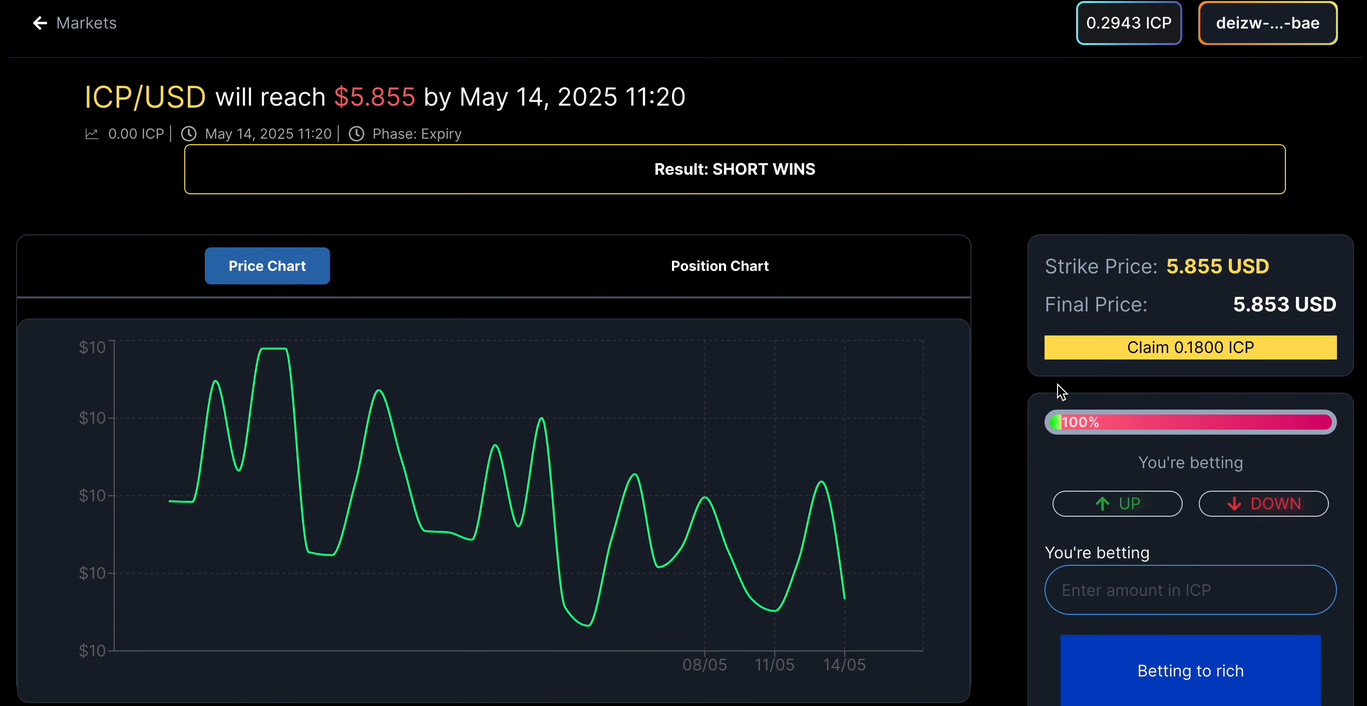
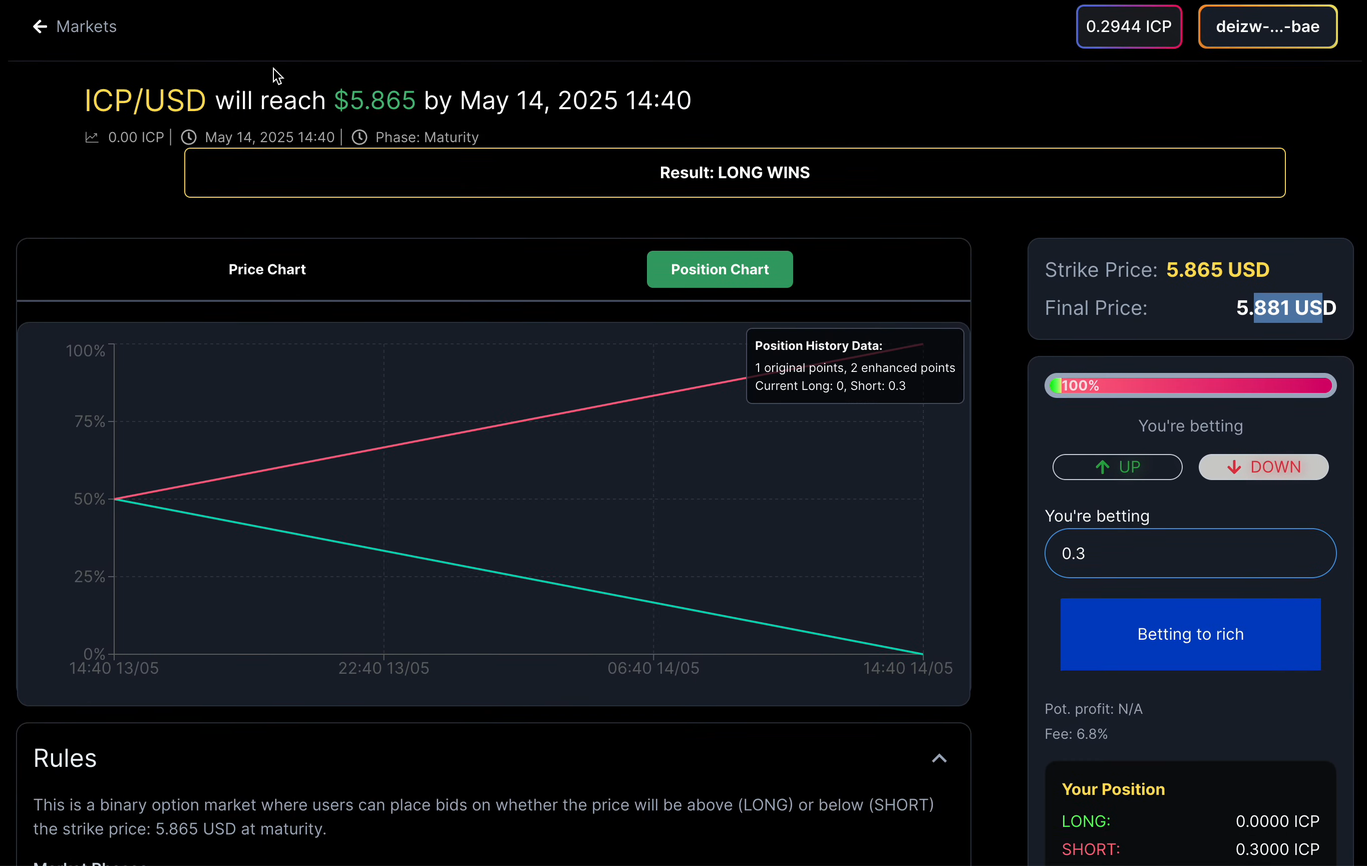
Improve readability and refresh Oreka presentation

diff --git a/styles.css b/styles.css
@@ -1,4 +1,4 @@
-:root{--bg:#f8f9fc;--surface:#fff;--ink:#1d2432;--muted:#596171;--line:#dce1e9;--accent:#2455db;--soft:#eef2fb;--radius:12px}*{box-sizing:border-box}html{scroll-behavior:smooth;scroll-padding-top:32px}body{margin:0;background:var(--bg);color:var(--ink);font-family:Arial,Helvetica,sans-serif;-webkit-font-smoothing:antialiased}a{color:inherit;text-decoration:none}a,button{-webkit-tap-highlight-color:transparent}button{font:inherit}a:focus-visible,button:focus-visible{outline:3px solid var(--accent);outline-offset:5px}a:hover{color:var(--accent)}.container,.site-header{max-width:1200px;margin:auto;padding-inline:40px}.site-header{height:112px;display:flex;align-items:center;justify-content:space-between;border-bottom:1px solid var(--line)}.wordmark{font-size:32px;font-weight:700;letter-spacing:-2px}.wordmark span{color:var(--accent)}nav{display:flex;align-items:center;gap:36px;font-size:14px}.nav-contact{border:1px solid var(--line);padding:12px 20px;border-radius:6px}.eyebrow{text-transform:uppercase;letter-spacing:1.7px;font-size:11px;font-weight:700;color:var(--muted);line-height:1.6}.hero{padding-top:64px;padding-bottom:32px}.hero-top{display:flex;justify-content:space-between;align-items:center}.github-link{font-size:12px;color:var(--muted)}h1{font-size:clamp(48px,6.4vw,86px);letter-spacing:-5px;line-height:1.08;font-weight:500;margin:44px 0 32px}h1 span{color:var(--accent)}.hero-bottom{display:flex;align-items:center;justify-content:space-between;gap:32px}.hero-bottom p{font-size:18px;line-height:1.75;max-width:570px;color:var(--muted);margin:0}.button{display:inline-flex;gap:32px;align-items:center;justify-content:center;background:var(--accent);color:var(--surface);border:1px solid var(--accent);padding:18px 24px;border-radius:6px;font-size:14px;white-space:nowrap;transition:background 160ms ease,transform 160ms ease}.button:hover{background:var(--ink);border-color:var(--ink);color:var(--surface);transform:translateY(-2px)}.skill-line{display:flex;gap:28px;flex-wrap:wrap;margin-top:56px;padding:24px 0;border-top:1px solid var(--line);font:12px monospace;color:var(--muted)}.work{padding-top:88px}.section-heading{display:flex;justify-content:space-between;align-items:flex-end;margin-bottom:52px;gap:24px}h2{font-size:clamp(34px,4vw,48px);line-height:1.15;letter-spacing:-2px;font-weight:500;margin:12px 0 0}.count{font:16px monospace;color:var(--muted);letter-spacing:0}.section-heading>p{font-size:14px;line-height:1.7;color:var(--muted);margin:0}.project{border-top:1px solid var(--line);padding:36px 0 64px}.project-heading{display:flex;align-items:center;gap:24px;margin-bottom:28px}.project-number{font:12px monospace;color:var(--muted)}.project-heading .eyebrow{margin:0 0 4px}.project-heading h3{font-size:28px;letter-spacing:-1px;margin:0;font-weight:500}.status{margin-left:auto;font-size:11px;color:var(--muted);border:1px solid var(--line);padding:8px 12px;border-radius:30px}.project-grid{display:grid;grid-template-columns:1.35fr 1fr;gap:40px;align-items:start}figure{margin:0}.image-button{position:relative;display:block;border:1px solid var(--line);padding:16px;background:var(--soft);width:100%;border-radius:var(--radius);overflow:hidden;cursor:zoom-in}.image-button img{display:block;width:100%;height:auto;aspect-ratio:1.44;object-fit:contain;background:var(--surface);border-radius:4px;transition:transform 220ms ease}.image-button:hover img{transform:scale(1.015)}.enlarge{position:absolute;bottom:24px;right:24px;background:var(--surface);color:var(--ink);padding:8px 12px;border:1px solid var(--line);border-radius:4px;font-size:11px}figcaption{font-size:11px;color:var(--muted);margin-top:12px;line-height:1.5}.project-copy h4{font-size:22px;line-height:1.4;letter-spacing:-.5px;font-weight:500;margin:0 0 16px}.project-copy p{font-size:14px;line-height:1.75;color:var(--muted);margin:0}.client-value{margin-top:20px;padding-left:16px;border-left:2px solid var(--accent)}.client-value .eyebrow{font-size:10px;display:block;margin-bottom:8px}.tags{display:flex;flex-wrap:wrap;gap:8px;margin:24px 0}.tags span{font-size:10px;padding:6px 9px;background:var(--soft);color:var(--muted);border-radius:4px}.project-links{display:flex;gap:28px;font-size:12px;font-weight:700}.project-links a{border-bottom:1px solid var(--line);padding-bottom:6px}.project-note{font-size:12px;line-height:1.8;color:var(--muted);max-width:820px;margin:0 0 64px}.services{padding-top:64px;border-top:1px solid var(--line);padding-bottom:88px}.service-grid{display:grid;grid-template-columns:repeat(3,1fr);gap:32px}.service-grid article{padding:28px;background:var(--surface);border:1px solid var(--line);border-radius:var(--radius)}.service-grid h3{font-size:19px;font-weight:500;margin:28px 0 16px}.service-grid p,.process p{font-size:14px;line-height:1.8;color:var(--muted);margin:0}.process{padding-top:56px;padding-bottom:88px;border-top:1px solid var(--line)}.process-grid{display:grid;grid-template-columns:1fr 1fr;gap:64px}.process ol{list-style:none;counter-reset:step;margin:0;padding:0}.process li{counter-increment:step;padding:20px 0 20px 40px;border-bottom:1px solid var(--line);position:relative}.process li:before{content:'0' counter(step);position:absolute;left:0;top:24px;font:11px monospace;color:var(--accent)}.process h3{font-size:16px;font-weight:500;margin:0 0 8px}.contact{background:var(--ink);color:var(--surface)}.contact-inner{padding-top:72px;padding-bottom:72px}.contact .eyebrow{color:#b9c2d3}.contact h2{font-size:clamp(48px,6vw,76px);letter-spacing:-3px;margin:28px 0 36px}.contact-bottom{display:flex;align-items:center;justify-content:space-between;gap:24px}.contact p{line-height:1.7;color:#c9d0dd;font-size:15px}.contact .button:hover{background:var(--surface);color:var(--ink);border-color:var(--surface)}footer{display:flex;justify-content:space-between;gap:24px;padding-block:32px;font-size:11px;color:var(--muted)}footer p{margin:0}.skip-link{position:fixed;top:-60px;left:16px;padding:12px;background:var(--surface);z-index:10}.skip-link:focus{top:16px}dialog{width:min(1100px,94vw);max-height:92vh;padding:16px;border:1px solid var(--line);border-radius:12px;background:var(--surface)}dialog::backdrop{background:rgb(20 27 40 / .78)}.dialog-bar{display:flex;align-items:center;justify-content:space-between;margin-bottom:16px;gap:16px}.dialog-bar h2{font-size:18px;letter-spacing:0;margin:0}.dialog-bar button{border:1px solid var(--line);background:var(--bg);padding:8px 12px;border-radius:4px;cursor:pointer}dialog img{width:100%;height:auto;display:block}body.dialog-open{overflow:hidden}@media(max-width:850px){.container,.site-header{padding-inline:24px}.hero-top{align-items:start;gap:16px}h1{letter-spacing:-3px}.project-grid{grid-template-columns:1fr;gap:24px}.project-copy{max-width:680px}.service-grid{gap:16px}.service-grid article{padding:20px}.process-grid{gap:32px}.hero-bottom p{font-size:16px}.section-heading>p{max-width:230px}}@media(max-width:560px){.site-header{height:88px}nav{gap:16px;font-size:12px}.nav-contact{padding:10px}.wordmark{font-size:28px}.hero{padding-top:32px}.hero-top{flex-direction:column;gap:4px}h1{font-size:48px;letter-spacing:-2.8px;margin:32px 0 24px}.hero-bottom,.section-heading,.contact-bottom{align-items:flex-start;flex-direction:column}.hero-bottom{gap:24px}.button{padding:16px 20px}.skill-line{gap:16px;margin-top:32px}.work{padding-top:48px}.section-heading{margin-bottom:32px;gap:16px}.project-heading{gap:12px;flex-wrap:wrap}.project-heading>div{flex:1}.status{margin-left:30px}.project{padding-bottom:48px}.project-copy h4{font-size:21px}.image-button{padding:8px}.enlarge{bottom:16px;right:16px}.service-grid,.process-grid{grid-template-columns:1fr}.services{padding-top:40px;padding-bottom:48px}.service-grid h3{margin-top:16px}.process{padding-top:40px;padding-bottom:48px}.process-grid{gap:24px}.contact-inner{padding-block:48px}.contact h2{letter-spacing:-2px}.contact-bottom p br{display:none}footer{flex-wrap:wrap;line-height:1.6}footer p:nth-child(2){order:3;width:100%}}@media(prefers-reduced-motion:reduce){html{scroll-behavior:auto}*,*:before,*:after{transition:none!important}}
+:root{--bg:#f8f9fc;--surface:#fff;--ink:#1d2432;--muted:#596171;--line:#dce1e9;--accent:#2455db;--soft:#eef2fb;--radius:12px}*{box-sizing:border-box}html{scroll-behavior:smooth;scroll-padding-top:32px}body{margin:0;background:var(--bg);color:var(--ink);font-family:Arial,Helvetica,sans-serif;-webkit-font-smoothing:antialiased}a{color:inherit;text-decoration:none}a,button{-webkit-tap-highlight-color:transparent}button{font:inherit}a:focus-visible,button:focus-visible{outline:3px solid var(--accent);outline-offset:5px}a:hover{color:var(--accent)}.container,.site-header{max-width:1200px;margin:auto;padding-inline:40px}.site-header{height:112px;display:flex;align-items:center;justify-content:space-between;border-bottom:1px solid var(--line)}.wordmark{font-size:calc(32px + 1pt);font-weight:700;letter-spacing:-2px}.wordmark span{color:var(--accent)}nav{display:flex;align-items:center;gap:36px;font-size:calc(14px + 1pt)}.nav-contact{border:1px solid var(--line);padding:12px 20px;border-radius:6px}.eyebrow{text-transform:uppercase;letter-spacing:1.7px;font-size:calc(11px + 1pt);font-weight:700;color:var(--muted);line-height:1.6}.hero{padding-top:64px;padding-bottom:32px}.hero-top{display:flex;justify-content:space-between;align-items:center}.github-link{font-size:calc(12px + 1pt);color:var(--muted)}h1{font-size:calc(clamp(48px,6.4vw,86px) + 1pt);letter-spacing:-5px;line-height:1.08;font-weight:500;margin:44px 0 32px}h1 span{color:var(--accent)}.hero-bottom{display:flex;align-items:center;justify-content:space-between;gap:32px}.hero-bottom p{font-size:calc(18px + 1pt);line-height:1.75;max-width:570px;color:var(--muted);margin:0}.button{display:inline-flex;gap:32px;align-items:center;justify-content:center;background:var(--accent);color:var(--surface);border:1px solid var(--accent);padding:18px 24px;border-radius:6px;font-size:calc(14px + 1pt);white-space:nowrap;transition:background 160ms ease,transform 160ms ease}.button:hover{background:var(--ink);border-color:var(--ink);color:var(--surface);transform:translateY(-2px)}.skill-line{display:flex;gap:28px;flex-wrap:wrap;margin-top:56px;padding:24px 0;border-top:1px solid var(--line);font:calc(12px + 1pt) monospace;color:var(--muted)}.work{padding-top:88px}.section-heading{display:flex;justify-content:space-between;align-items:flex-end;margin-bottom:52px;gap:24px}h2{font-size:calc(clamp(34px,4vw,48px) + 1pt);line-height:1.15;letter-spacing:-2px;font-weight:500;margin:12px 0 0}.count{font:calc(16px + 1pt) monospace;color:var(--muted);letter-spacing:0}.section-heading>p{font-size:calc(14px + 1pt);line-height:1.7;color:var(--muted);margin:0}.project{border-top:1px solid var(--line);padding:36px 0 64px}.project-heading{display:flex;align-items:center;gap:24px;margin-bottom:28px}.project-number{font:calc(12px + 1pt) monospace;color:var(--muted)}.project-heading .eyebrow{margin:0 0 4px}.project-heading h3{font-size:calc(28px + 1pt);letter-spacing:-1px;margin:0;font-weight:500}.status{margin-left:auto;font-size:calc(11px + 1pt);color:var(--muted);border:1px solid var(--line);padding:8px 12px;border-radius:30px}.project-grid{display:grid;grid-template-columns:1.35fr 1fr;gap:40px;align-items:start}figure{margin:0}.image-button{position:relative;display:block;border:1px solid var(--line);padding:16px;background:var(--soft);width:100%;border-radius:var(--radius);overflow:hidden;cursor:zoom-in}.image-button img{display:block;width:100%;height:auto;aspect-ratio:1.44;object-fit:contain;background:var(--surface);border-radius:4px;transition:transform 220ms ease}.image-button:hover img{transform:scale(1.015)}.enlarge{position:absolute;bottom:24px;right:24px;background:var(--surface);color:var(--ink);padding:8px 12px;border:1px solid var(--line);border-radius:4px;font-size:calc(11px + 1pt)}figcaption{font-size:calc(11px + 1pt);color:var(--muted);margin-top:12px;line-height:1.5}.project-copy h4{font-size:calc(22px + 1pt);line-height:1.4;letter-spacing:-.5px;font-weight:500;margin:0 0 16px}.project-copy p{font-size:calc(14px + 1pt);line-height:1.75;color:var(--muted);margin:0}.client-value{margin-top:20px;padding-left:16px;border-left:2px solid var(--accent)}.client-value .eyebrow{font-size:calc(10px + 1pt);display:block;margin-bottom:8px}.tags{display:flex;flex-wrap:wrap;gap:8px;margin:24px 0}.tags span{font-size:calc(10px + 1pt);padding:6px 9px;background:var(--soft);color:var(--muted);border-radius:4px}.project-links{display:flex;gap:28px;font-size:calc(12px + 1pt);font-weight:700}.project-links a{border-bottom:1px solid var(--line);padding-bottom:6px}.project-note{font-size:calc(12px + 1pt);line-height:1.8;color:var(--muted);max-width:820px;margin:0 0 64px}.services{padding-top:64px;border-top:1px solid var(--line);padding-bottom:88px}.service-grid{display:grid;grid-template-columns:repeat(3,1fr);gap:32px}.service-grid article{padding:28px;background:var(--surface);border:1px solid var(--line);border-radius:var(--radius)}.service-grid h3{font-size:calc(19px + 1pt);font-weight:500;margin:28px 0 16px}.service-grid p,.process p{font-size:calc(14px + 1pt);line-height:1.8;color:var(--muted);margin:0}.process{padding-top:56px;padding-bottom:88px;border-top:1px solid var(--line)}.process-grid{display:grid;grid-template-columns:1fr 1fr;gap:64px}.process ol{list-style:none;counter-reset:step;margin:0;padding:0}.process li{counter-increment:step;padding:20px 0 20px 40px;border-bottom:1px solid var(--line);position:relative}.process li:before{content:'0' counter(step);position:absolute;left:0;top:24px;font:calc(11px + 1pt) monospace;color:var(--accent)}.process h3{font-size:calc(16px + 1pt);font-weight:500;margin:0 0 8px}.contact{background:var(--ink);color:var(--surface)}.contact-inner{padding-top:72px;padding-bottom:72px}.contact .eyebrow{color:#b9c2d3}.contact h2{font-size:calc(clamp(48px,6vw,76px) + 1pt);letter-spacing:-3px;margin:28px 0 36px}.contact-bottom{display:flex;align-items:center;justify-content:space-between;gap:24px}.contact p{line-height:1.7;color:#c9d0dd;font-size:calc(15px + 1pt)}.contact .button:hover{background:var(--surface);color:var(--ink);border-color:var(--surface)}footer{display:flex;justify-content:space-between;gap:24px;padding-block:32px;font-size:calc(11px + 1pt);color:var(--muted)}footer p{margin:0}.skip-link{position:fixed;top:-60px;left:16px;padding:12px;background:var(--surface);z-index:10}.skip-link:focus{top:16px}dialog{width:min(1100px,94vw);max-height:92vh;padding:16px;border:1px solid var(--line);border-radius:12px;background:var(--surface)}dialog::backdrop{background:rgb(20 27 40 / .78)}.dialog-bar{display:flex;align-items:center;justify-content:space-between;margin-bottom:16px;gap:16px}.dialog-bar h2{font-size:calc(18px + 1pt);letter-spacing:0;margin:0}.dialog-bar button{border:1px solid var(--line);background:var(--bg);padding:8px 12px;border-radius:4px;cursor:pointer}dialog img{width:100%;height:auto;display:block}body.dialog-open{overflow:hidden}@media(max-width:850px){.container,.site-header{padding-inline:24px}.hero-top{align-items:start;gap:16px}h1{letter-spacing:-3px}.project-grid{grid-template-columns:1fr;gap:24px}.project-copy{max-width:680px}.service-grid{gap:16px}.service-grid article{padding:20px}.process-grid{gap:32px}.hero-bottom p{font-size:calc(16px + 1pt)}.section-heading>p{max-width:230px}}@media(max-width:560px){.site-header{height:88px}nav{gap:16px;font-size:calc(12px + 1pt)}.nav-contact{padding:10px}.wordmark{font-size:calc(28px + 1pt)}.hero{padding-top:32px}.hero-top{flex-direction:column;gap:4px}h1{font-size:calc(48px + 1pt);letter-spacing:-2.8px;margin:32px 0 24px}.hero-bottom,.section-heading,.contact-bottom{align-items:flex-start;flex-direction:column}.hero-bottom{gap:24px}.button{padding:16px 20px}.skill-line{gap:16px;margin-top:32px}.work{padding-top:48px}.section-heading{margin-bottom:32px;gap:16px}.project-heading{gap:12px;flex-wrap:wrap}.project-heading>div{flex:1}.status{margin-left:30px}.project{padding-bottom:48px}.project-copy h4{font-size:calc(21px + 1pt)}.image-button{padding:8px}.enlarge{bottom:16px;right:16px}.service-grid,.process-grid{grid-template-columns:1fr}.services{padding-top:40px;padding-bottom:48px}.service-grid h3{margin-top:16px}.process{padding-top:40px;padding-bottom:48px}.process-grid{gap:24px}.contact-inner{padding-block:48px}.contact h2{letter-spacing:-2px}.contact-bottom p br{display:none}footer{flex-wrap:wrap;line-height:1.6}footer p:nth-child(2){order:3;width:100%}}@media(prefers-reduced-motion:reduce){html{scroll-behavior:auto}*,*:before,*:after{transition:none!important}}
 /* Preserve source proportions; the sequence needs enough space to read. */
 .image-button img{aspect-ratio:auto}
 .project-diagram .project-grid{grid-template-columns:1fr;gap:28px}
@@ -12,6 +12,9 @@ nav a{min-height:40px;display:inline-flex;align-items:center}
 
 .contributions{padding-top:56px;padding-bottom:80px;border-top:1px solid var(--line)}
 .contribution-row{display:flex;align-items:center;justify-content:space-between;gap:32px;padding:28px 0;border-top:1px solid var(--line)}
-.contribution-row .eyebrow{margin:0 0 8px}.contribution-row h3{font-size:21px;font-weight:500;margin:0 0 12px;letter-spacing:-.4px}.contribution-row p:not(.eyebrow){font-size:14px;line-height:1.7;color:var(--muted);margin:0}.contribution-row a{font-size:12px;font-weight:700;white-space:nowrap;min-height:44px;display:inline-flex;align-items:center;border-bottom:1px solid var(--line)}
+.contribution-row .eyebrow{margin:0 0 8px}.contribution-row h3{font-size:calc(21px + 1pt);font-weight:500;margin:0 0 12px;letter-spacing:-.4px}.contribution-row p:not(.eyebrow){font-size:calc(14px + 1pt);line-height:1.7;color:var(--muted);margin:0}.contribution-row a{font-size:calc(12px + 1pt);font-weight:700;white-space:nowrap;min-height:44px;display:inline-flex;align-items:center;border-bottom:1px solid var(--line)}
 @media(max-width:560px){.contributions{padding-top:40px;padding-bottom:48px}.contribution-row{flex-direction:column;align-items:flex-start;gap:12px}}
 .project-grid>*{min-width:0}
+
+/* Increase the type scale by one typographic point (1.333 CSS pixels). */
+body{font-size:calc(16px + 1pt)}

diff --git a/index.html b/index.html
@@ -5,25 +5,25 @@
 <section class="work container" id="work"><div class="section-heading"><div><p class="eyebrow">Projects</p><h2>Selected work<span class="count"> / 05</span></h2></div><p>Applications, APIs, and protocols.<br>Selected engineering work.</p></div>
 <article class="project" id="oreka">
  <div class="project-heading"><span class="project-number">01 /</span><div><p class="eyebrow">Prediction market infrastructure</p><h3>Oreka</h3></div><span class="status">Open-source project</span></div>
- <div class="project-grid"><figure><button class="image-button" data-image="assets/screenshots/oreka.png" data-name="Oreka" aria-label="Enlarge Oreka visual"><img src="assets/screenshots/oreka.png" alt="Oreka market showing a resolved outcome, final price, chart, and reward claim" loading="lazy" width="2730" height="1410"><span class="enlarge">View screenshot ↗</span></button><figcaption>Trading and settlement · cropped from the 4K product walkthrough</figcaption></figure>
- <div class="project-copy"><h4>On-chain prediction markets, from creation to settlement.</h4><p>A market factory on the Internet Computer deploys configurable price-direction markets. Internet Identity handles authentication, while HTTP outcalls bring price feeds into on-chain settlement.</p><div class="client-value"><span class="eyebrow">Engineering scope</span><p>Market deployment, trading positions, price-feed integration, and settlement across Motoko canisters and a TypeScript interface.</p></div><div class="tags"><span>Motoko</span><span>TypeScript</span><span>ICP</span></div><div class="project-links"><a href="https://youtu.be/3SbgZNxx3wU" target="_blank" rel="noopener noreferrer">Watch walkthrough ↗</a><a href="https://github.com/mangekyou-labs/oreka" target="_blank" rel="noopener noreferrer">Source code ↗</a></div></div></div></article>
+ <div class="project-grid"><figure><button class="image-button" data-image="assets/screenshots/oreka.png" data-name="Oreka" aria-label="Enlarge Oreka visual"><img src="assets/screenshots/oreka.png" alt="Oreka showing the market outcome, position chart, strike and final prices, trading controls, and market rules" loading="lazy" width="2730" height="1730"><span class="enlarge">View screenshot ↗</span></button><figcaption>Market outcome, position chart, and trading controls</figcaption></figure>
+ <div class="project-copy"><h4>Permissionless prediction markets on ICP mainnet.</h4><p>Create and deploy your own prediction market on the Internet Computer without platform approval. Choose the price target and expiry, take a position, and follow the market through its outcome and settlement.</p><div class="client-value"><span class="eyebrow">Engineering scope</span><p>Permissionless market deployment, trading positions, outcome settlement, and reward claims across Motoko canisters and a TypeScript interface.</p></div><div class="tags"><span>Motoko</span><span>TypeScript</span><span>ICP</span></div><div class="project-links"><a href="https://youtu.be/3SbgZNxx3wU" target="_blank" rel="noopener noreferrer">Watch walkthrough ↗</a><a href="https://github.com/mangekyou-labs/oreka" target="_blank" rel="noopener noreferrer">Source code ↗</a></div></div></div></article>
 <article class="project" id="haze-api">
- <div class="project-heading"><span class="project-number">02 /</span><div><p class="eyebrow">Private API credits &amp; AI tooling</p><h3>Haze API</h3></div><span class="status">Experimental · Base Sepolia</span></div>
+ <div class="project-heading"><span class="project-number">02 /</span><div><p class="eyebrow">Private API credits &amp; AI tooling</p><h3>Haze API</h3></div><span class="status">Private API credits</span></div>
  <div class="project-grid"><figure><button class="image-button" data-image="assets/screenshots/haze-api.png" data-name="Haze API" aria-label="Enlarge Haze API visual"><img src="assets/screenshots/haze-api.png" alt="Terminal client session showing a returned response with GPT-4o Mini through ZK Credits" loading="lazy" width="1594" height="988"><span class="enlarge">View screenshot ↗</span></button><figcaption>Client integration · Codex session using ZK Credits · supplied product capture</figcaption></figure>
  <div class="project-copy"><h4>Private prepaid credits for API access.</h4><p>Zero-knowledge proofs and a custom x402 adapter connect prepaid credits to an AI chat API. A local sidecar handles client integration, with readiness checks, spend limits, and durable pause controls on the service.</p><div class="client-value"><span class="eyebrow">Engineering scope</span><p>Proof verification, credit accounting, API adapters, and operational controls in one system.</p></div><div class="tags"><span>TypeScript</span><span>Zero-knowledge</span><span>x402</span><span>Postgres</span></div><div class="project-links"><a href="https://hazecredits.vercel.app" target="_blank" rel="noopener noreferrer">Open product ↗</a><a href="https://github.com/mangekyou-labs/haze-api" target="_blank" rel="noopener noreferrer">Source code ↗</a></div></div></div></article>
 <article class="project" id="chakra">
- <div class="project-heading"><span class="project-number">03 /</span><div><p class="eyebrow">DEX aggregation &amp; routing</p><h3>Chakra</h3></div><span class="status">Arc testnet</span></div>
- <div class="project-grid"><figure><button class="image-button" data-image="assets/screenshots/chakra.png" data-name="Chakra" aria-label="Enlarge Chakra visual"><img src="assets/screenshots/chakra.png" alt="Chakra returned quote for 100 USDC to 113.927499 EURC with price impact, minimum received, and presto-hub route" loading="lazy" width="1440" height="1050"><span class="enlarge">View screenshot ↗</span></button><figcaption>Live quote · 100 USDC → 113.927499 EURC via presto-hub · Arc testnet</figcaption></figure>
+ <div class="project-heading"><span class="project-number">03 /</span><div><p class="eyebrow">DEX aggregation &amp; routing</p><h3>Chakra</h3></div><span class="status">Swap routing</span></div>
+ <div class="project-grid"><figure><button class="image-button" data-image="assets/screenshots/chakra.png" data-name="Chakra" aria-label="Enlarge Chakra visual"><img src="assets/screenshots/chakra.png" alt="Chakra returned quote for 100 USDC to 113.927499 EURC with price impact, minimum received, and presto-hub route" loading="lazy" width="1440" height="1050"><span class="enlarge">View screenshot ↗</span></button><figcaption>Live quote · 100 USDC → 113.927499 EURC via presto-hub · Swap routing</figcaption></figure>
  <div class="project-copy"><h4>A swap router that returns the quote and the route behind it.</h4><p>A Rust quote service combines liquidity venues from Redis pool snapshots. The TypeScript interface displays the returned amount, minimum received, price impact, and selected route; Solidity contracts handle execution through Permit2.</p><div class="client-value"><span class="eyebrow">Engineering scope</span><p>Rust routing and indexing, Solidity execution, a TypeScript SDK, and the swap interface.</p></div><div class="tags"><span>Rust</span><span>Solidity</span><span>TypeScript</span><span>Redis</span></div><div class="project-links"><a href="https://chakra-ag.vercel.app" target="_blank" rel="noopener noreferrer">Open product ↗</a><a href="https://github.com/mangekyou-labs/chakra" target="_blank" rel="noopener noreferrer">Source code ↗</a></div></div></div></article>
 <article class="project project-diagram" id="kamui">
  <div class="project-heading"><span class="project-number">04 /</span><div><p class="eyebrow">Verifiable randomness</p><h3>Kamui</h3></div><span class="status">VRF architecture</span></div>
  <div class="project-grid"><figure><button class="image-button" data-image="assets/screenshots/kamui-sequence.svg" data-name="Kamui" aria-label="Enlarge Kamui visual"><img src="assets/screenshots/kamui-sequence.svg" alt="Kamui sequence diagram: request with escrow, bind a future round, receive drand beacon, submit proof, verify and return randomness; refund after timeout" loading="lazy" width="1000" height="720"><span class="enlarge">View sequence ↗</span></button><figcaption>Five-step sequence · proposed architecture from the Kamui VRF specification</figcaption></figure>
  <div class="project-copy"><h4>Verifiable randomness with a clear request-to-result lifecycle.</h4><p>The proposed architecture binds each request to a future drand beacon. An oracle waits for that round, submits an ECVRF proof, and the program verifies it before delivering randomness to the application.</p><div class="client-value"><span class="eyebrow">Engineering scope</span><p>The specification includes fee escrow, callback delivery, a query fallback, and refunds for requests that time out.</p></div><div class="tags"><span>Rust</span><span>Solana</span><span>TypeScript</span><span>Cryptography</span></div><div class="project-links"><a href="https://github.com/mangekyou-labs/kamui" target="_blank" rel="noopener noreferrer">Source code ↗</a></div></div></div></article>
 <article class="project" id="mgk-exchange">
- <div class="project-heading"><span class="project-number">05 /</span><div><p class="eyebrow">On-chain perpetual futures</p><h3>MGK Exchange</h3></div><span class="status">Solana devnet</span></div>
- <div class="project-grid"><figure><button class="image-button" data-image="assets/screenshots/mgk-exchange.png" data-name="MGK Exchange" aria-label="Enlarge MGK Exchange visual"><img src="assets/screenshots/mgk-exchange.png" alt="MGK Exchange devnet trading interface with candlestick chart, order book, and order entry" loading="lazy" width="1600" height="1000"><span class="enlarge">View screenshot ↗</span></button><figcaption>Trading interface · chart and order book · Solana devnet</figcaption></figure>
+ <div class="project-heading"><span class="project-number">05 /</span><div><p class="eyebrow">On-chain perpetual futures</p><h3>MGK Exchange</h3></div><span class="status">Batch-auction exchange</span></div>
+ <div class="project-grid"><figure><button class="image-button" data-image="assets/screenshots/mgk-exchange.png" data-name="MGK Exchange" aria-label="Enlarge MGK Exchange visual"><img src="assets/screenshots/mgk-exchange.png" alt="MGK Exchange devnet trading interface with candlestick chart, order book, and order entry" loading="lazy" width="1600" height="1000"><span class="enlarge">View screenshot ↗</span></button><figcaption>Trading interface · chart and order book · Batch-auction exchange</figcaption></figure>
  <div class="project-copy"><h4>Perpetual futures with batch-auction matching on Solana.</h4><p>Orders collect within a batch, clear through a dual-flow auction, and settle on-chain. Separate Rust programs handle custody and positions, matching, and the fallback oracle, alongside a TypeScript SDK, keeper, indexer, and trading interface.</p><div class="client-value"><span class="eyebrow">Engineering scope</span><p>Matching logic, cross-margin portfolios, persistent orders, liquidation handling, and the batch settlement lifecycle.</p></div><div class="tags"><span>Rust</span><span>Solana</span><span>Pinocchio</span><span>TypeScript</span></div><div class="project-links"><a href="https://mgkprotocol.vercel.app/trade" target="_blank" rel="noopener noreferrer">Open product ↗</a><a href="https://github.com/mangekyou-labs/mgk-protocol" target="_blank" rel="noopener noreferrer">Source code ↗</a></div></div></div></article>
-<p class="project-note">Chakra and MGK Exchange use test networks. Haze API is an experimental pilot. Kamui’s diagram describes the proposed architecture in its specification.</p></section>
+<p class="project-note">The linked Chakra demo uses Arc testnet; MGK Exchange uses Solana devnet. Haze API is an experimental Base Sepolia pilot. Kamui’s diagram describes the proposed architecture in its specification.</p></section>
 <section class="contributions container" id="contributions"><div class="section-heading"><div><p class="eyebrow">Open source</p><h2>Contributions.</h2></div><p>Developer tools, SDKs,<br>and wallet infrastructure.</p></div><div class="contribution-list"><article class="contribution-row"><div><p class="eyebrow">template-web3-app</p><h3>ERC-1155 plugin</h3><p>Built ERC-1155 support for the web3 application template.</p></div><a href="https://github.com/turbo-eth/template-web3-app/pull/156" target="_blank" rel="noopener noreferrer">Merged PR ↗</a></article><article class="contribution-row"><div><p class="eyebrow">IOTA Rust SDK</p><h3>GraphQL client structure</h3><p>Refactored the GraphQL client’s module structure and shared query types.</p></div><a href="https://github.com/iotaledger/iota-rust-sdk/pull/1016" target="_blank" rel="noopener noreferrer">Pull request ↗</a></article><article class="contribution-row"><div><p class="eyebrow">SPL Token Wallet</p><h3>Dependency maintenance</h3><p>Updated outdated dependencies in the Solana token wallet.</p></div><a href="https://github.com/MrSufferer/spl-token-wallet/tree/fix/outdated-packages" target="_blank" rel="noopener noreferrer">Contribution ↗</a></article><article class="contribution-row"><div><p class="eyebrow">Magick</p><h3>TypeScript editor plugin</h3><p>Built an elements-cloning plugin and integrated it with editor selection.</p></div><a href="https://github.com/Oneirocom/Magick/pull/333" target="_blank" rel="noopener noreferrer">Merged PR ↗</a></article></div></section>
 <section class="services container" id="services"><div class="section-heading"><div><p class="eyebrow">Engineering</p><h2>Areas of focus.</h2></div><p>Across application development<br>and protocol infrastructure.</p></div><div class="service-grid"><article><span class="project-number">01</span><h3>Full-stack products</h3><p>Product interfaces, authentication, application logic, and API integrations connected into a coherent user experience.</p></article><article><span class="project-number">02</span><h3>APIs & infrastructure</h3><p>TypeScript and Rust services, event indexing, data pipelines, SDKs, and operational visibility for data-intensive applications.</p></article><article><span class="project-number">03</span><h3>Blockchain integrations</h3><p>Wallet flows, smart contracts, payment escrow, exchange routing, and cryptographic proof integration across on-chain applications.</p></article></div></section>
 

diff --git a/docs/content-sources.md b/docs/content-sources.md
@@ -4,7 +4,7 @@ Reviewed October 2, 2026. Project descriptions are based on public repositories 
 
 | Project | Source | Visual |
 | --- | --- | --- |
-| Oreka | https://github.com/mangekyou-labs/oreka | Cropped from the highest available 3456 × 2160 video at https://youtu.be/3SbgZNxx3wU; resolved market and reward claim |
+| Oreka | https://github.com/mangekyou-labs/oreka | Cropped from the highest available 3456 × 2160 video at https://youtu.be/3SbgZNxx3wU; frame at 4:03 showing market outcome, position chart, and trading controls |
 | Haze API | https://github.com/mangekyou-labs/haze-api | Exact user-supplied terminal capture, showing a client response through ZK Credits. It does not independently establish proof verification or billing correctness. |
 | Chakra | https://github.com/mangekyou-labs/chakra | Live browser capture after entering 100 USDC and receiving 113.927499 EURC via presto-hub, on Arc testnet |
 | Kamui | User-provided Kamui VRF Specification.docx | Original five-step sequence SVG describing proposed architecture; also appended to the Word document with an original backup |
@@ -18,3 +18,5 @@ Reviewed October 2, 2026. Project descriptions are based on public repositories 
 - Magick cloning plugin: merged https://github.com/Oneirocom/Magick/pull/333; selection compatibility in merged PR 377.
 
 User-provided contributions are included with their actual accessible references. Merge labels are reserved for verified merged PRs.
+
+Oreka’s permissionless ICP mainnet positioning was supplied by the project author. Network labels are consolidated in the project note rather than repeated in headings and captions.
